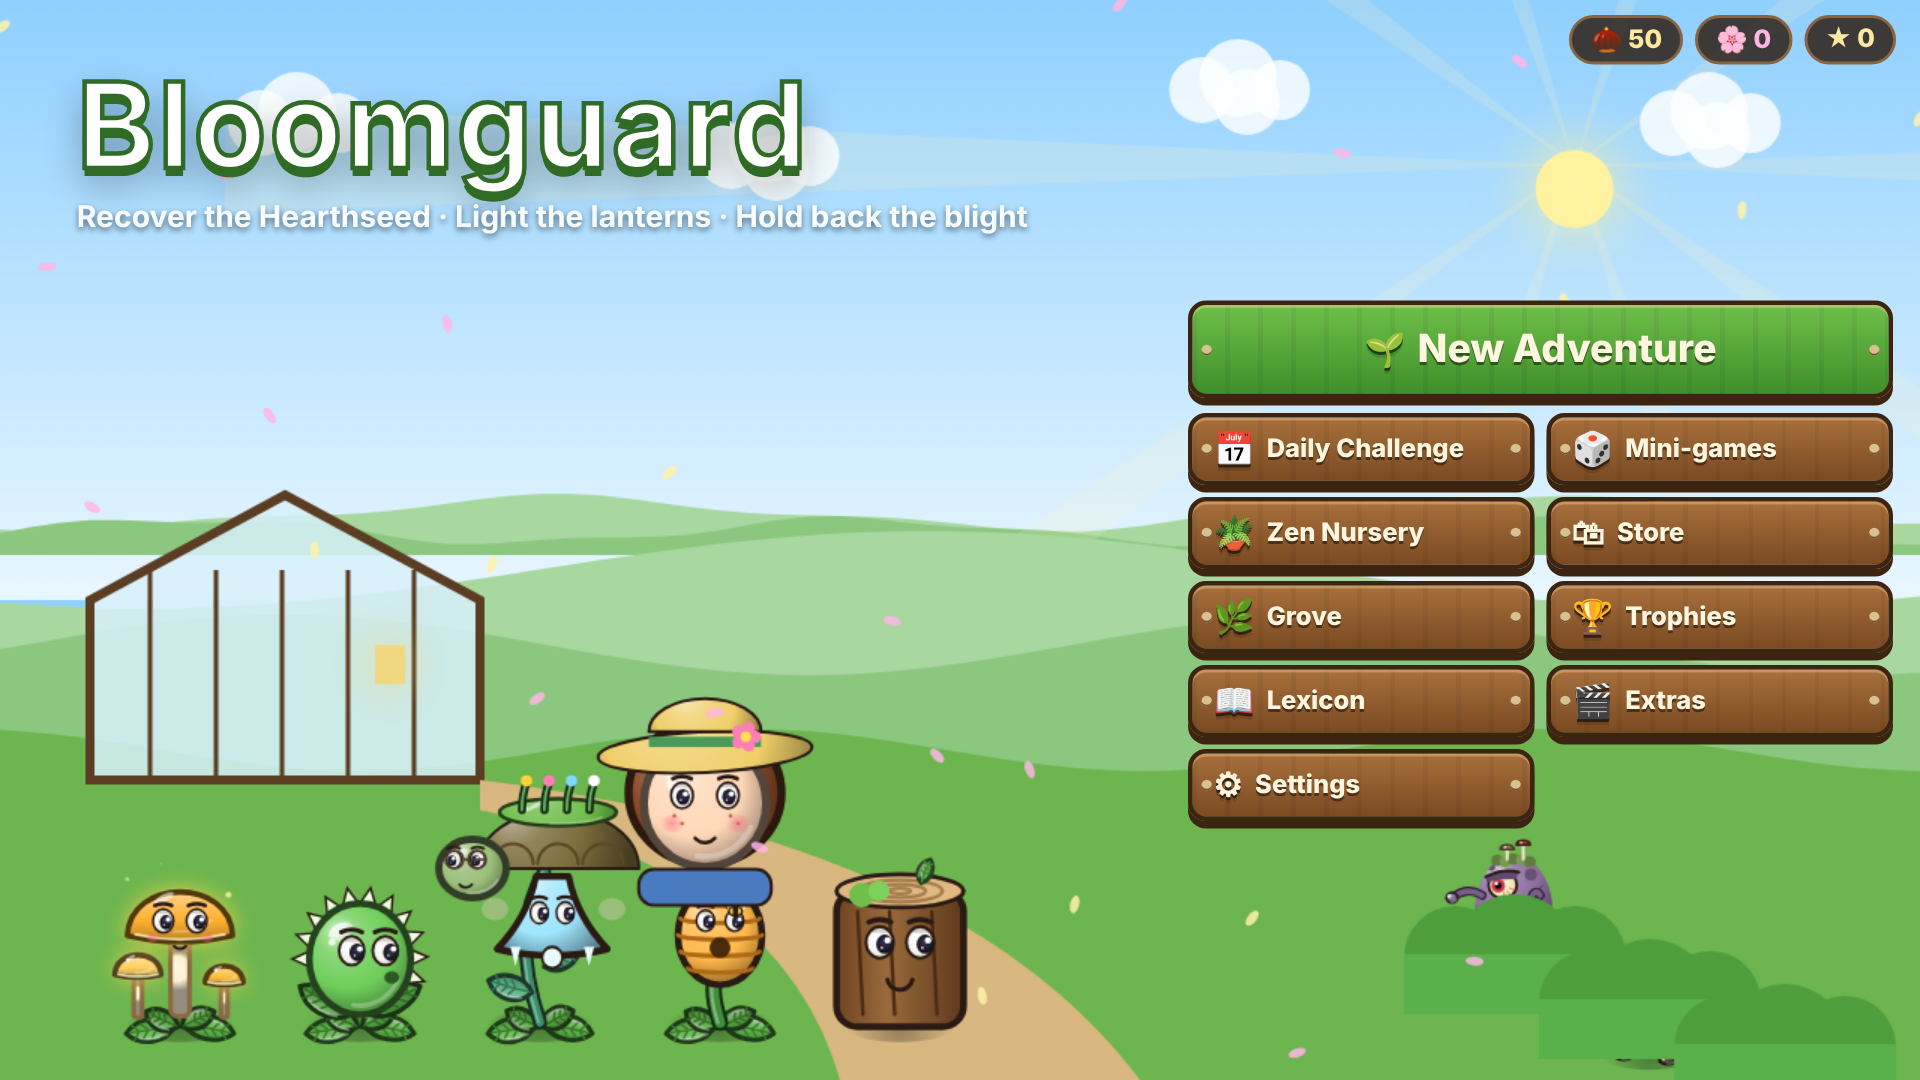
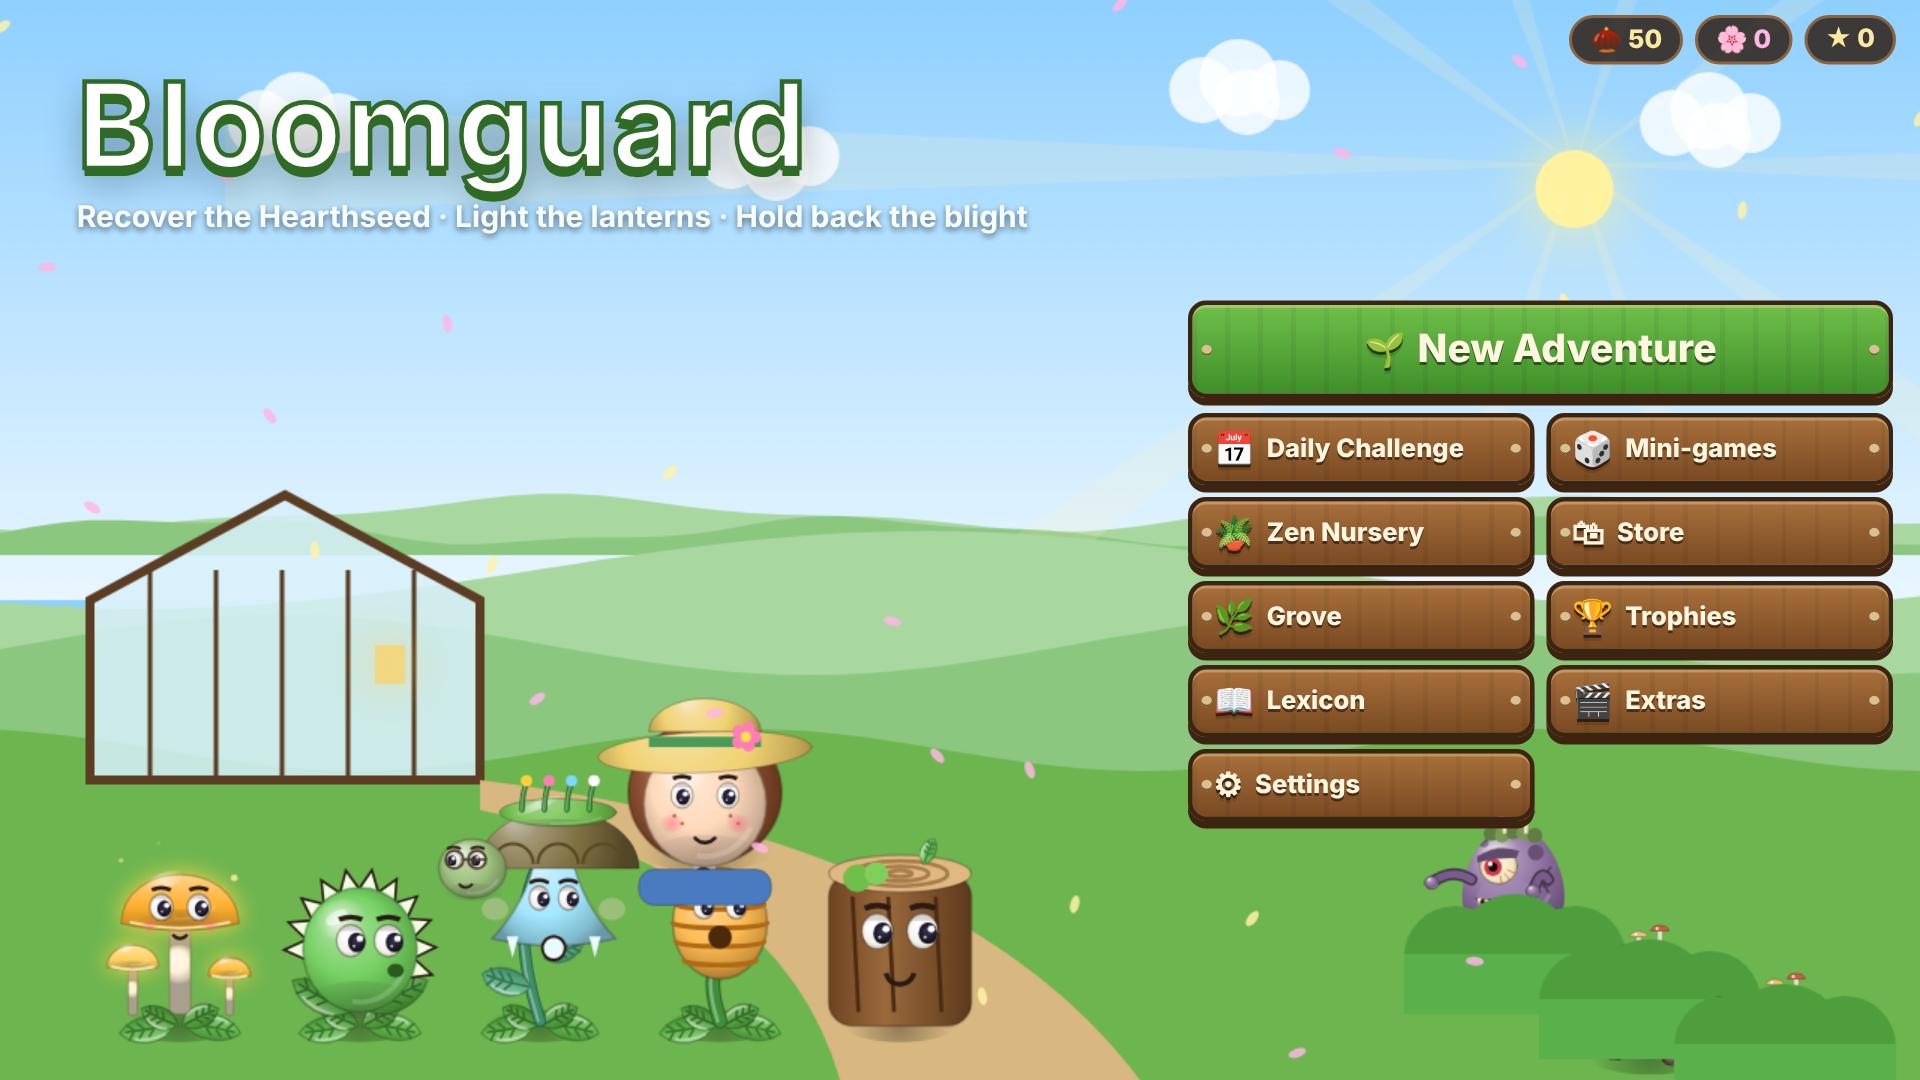
Art pass: outline-free soft shading, bigger characters, cleaner lawn
- Remove heavy outlines; thin soft same-hue edges instead
- Brighter volumetric shading with soft highlight and base ambient shadow
- Guardians scaled up to fill tiles; Rotlings ~35% taller, bosses tower
- Health bars and hit reach follow the new Rotling sizes
- Cleaner, brighter lawn texture with less noise
- Pot Luck I slightly easier

Claude-Session: https://claude.ai/code/session_01Fiiq1trLoNP3zvseY7J4Gr

diff --git a/www/js/art.js b/www/js/art.js
@@ -119,23 +119,28 @@ export function tint(h, amt) {
 }
 // toon shading: bright key light from the top-left, a warm core and a deep shadow edge
 function shadeFill(ctx, x, y, r, color) {
-  const g = ctx.createRadialGradient(x - r * 0.42, y - r * 0.55, r * 0.05, x - r * 0.1, y - r * 0.1, r * 1.25);
-  g.addColorStop(0, tint(color, 0.55));
-  g.addColorStop(0.28, tint(color, 0.18));
-  g.addColorStop(0.62, color);
-  g.addColorStop(1, tint(color, -0.42));
+  const g = ctx.createRadialGradient(x - r * 0.35, y - r * 0.45, r * 0.02, x - r * 0.05, y - r * 0.05, r * 1.15);
+  g.addColorStop(0, tint(color, 0.62));
+  g.addColorStop(0.22, tint(color, 0.3));
+  g.addColorStop(0.55, tint(color, 0.06));
+  g.addColorStop(0.85, tint(color, -0.18));
+  g.addColorStop(1, tint(color, -0.34));
   return g;
 }
 let lineColor = null;
 // coloured outlines read softer and richer than flat black ones
+// no heavy outlines: just a thin, soft edge in a darker shade of the shape's own colour
 function outline(ctx, s, w = 0.032) {
+  ctx.save();
+  ctx.globalAlpha *= lineColor ? 0.45 : 0.28;
   ctx.strokeStyle = lineColor || INK;
-  ctx.lineWidth = Math.max(1.8, s * w);
+  ctx.lineWidth = Math.max(1, s * w * 0.32);
   ctx.lineJoin = 'round';
   ctx.lineCap = 'round';
   ctx.stroke();
+  ctx.restore();
 }
-function inkFor(color) { return tint(color, -0.68); }
+function inkFor(color) { return tint(color, -0.5); }
 function blob(ctx, x, y, rx, ry, color, s, rot = 0) {
   ctx.beginPath();
   ctx.ellipse(x, y, rx, ry, rot, 0, TAU);
@@ -151,11 +156,16 @@ function glossy(ctx, x, y, rx, ry, rot = 0) {
   ctx.save();
   ctx.translate(x, y);
   ctx.rotate(rot);
-  ctx.fillStyle = 'rgba(255,255,255,0.55)';
-  ctx.beginPath(); ctx.ellipse(-rx * 0.38, -ry * 0.5, rx * 0.26, ry * 0.15, -0.5, 0, TAU); ctx.fill();
-  ctx.fillStyle = 'rgba(255,255,255,0.8)';
-  ctx.beginPath(); ctx.arc(-rx * 0.55, -ry * 0.3, Math.max(1.2, Math.min(rx, ry) * 0.07), 0, TAU); ctx.fill();
-  ctx.strokeStyle = 'rgba(255,255,255,0.28)';
+  const hg = ctx.createRadialGradient(-rx * 0.35, -ry * 0.5, 0, -rx * 0.35, -ry * 0.5, rx * 0.45);
+  hg.addColorStop(0, 'rgba(255,255,255,0.55)'); hg.addColorStop(1, 'rgba(255,255,255,0)');
+  ctx.fillStyle = hg;
+  ctx.beginPath(); ctx.ellipse(-rx * 0.35, -ry * 0.5, rx * 0.45, ry * 0.3, -0.4, 0, TAU); ctx.fill();
+  // soft ambient shadow at the base
+  const ag = ctx.createRadialGradient(0, ry * 0.85, 0, 0, ry * 0.85, rx * 0.9);
+  ag.addColorStop(0, 'rgba(0,0,0,0.14)'); ag.addColorStop(1, 'rgba(0,0,0,0)');
+  ctx.fillStyle = ag;
+  ctx.beginPath(); ctx.ellipse(0, ry * 0.8, rx * 0.9, ry * 0.3, 0, 0, TAU); ctx.fill();
+  ctx.strokeStyle = 'rgba(255,255,255,0.18)';
   ctx.lineWidth = Math.max(1.5, Math.min(rx, ry) * 0.09);
   ctx.beginPath(); ctx.ellipse(0, 0, rx * 0.84, ry * 0.84, 0, Math.PI * 0.15, Math.PI * 0.55); ctx.stroke();
   ctx.restore();
@@ -192,7 +202,7 @@ function eyes(ctx, x, y, gap, r, look = 0.4, blink = false, mood = 'happy') {
     const g = ctx.createRadialGradient(ex - r * 0.3, y - r * 0.4, r * 0.1, ex, y, r * 1.1);
     g.addColorStop(0, '#ffffff'); g.addColorStop(0.75, '#f4f2ec'); g.addColorStop(1, '#cfcbc0');
     ctx.fillStyle = g; ctx.fill();
-    ctx.strokeStyle = INK; ctx.lineWidth = Math.max(1.2, r * 0.2); ctx.stroke();
+    ctx.strokeStyle = 'rgba(40,25,20,0.35)'; ctx.lineWidth = Math.max(1, r * 0.08); ctx.stroke();
     const px = ex + r * look * 0.8, py = y + r * 0.12;
     ctx.beginPath(); ctx.ellipse(px, py, r * 0.56, r * 0.66, 0, 0, TAU);
     const pg = ctx.createRadialGradient(px, py - r * 0.2, r * 0.05, px, py, r * 0.66);
@@ -289,8 +299,8 @@ function leaf(ctx, x, y, len, w, ang, color, s) {
 }
 function stem(ctx, x1, y1, cx, cy, x2, y2, w, color = '#3f8f3a') {
   ctx.lineCap = 'round';
-  ctx.strokeStyle = inkFor(color);
-  ctx.lineWidth = w + 3.5;
+  ctx.strokeStyle = tint(color, -0.3);
+  ctx.lineWidth = w + 1.5;
   ctx.beginPath(); ctx.moveTo(x1, y1); ctx.quadraticCurveTo(cx, cy, x2, y2); ctx.stroke();
   ctx.strokeStyle = color;
   ctx.lineWidth = w;
@@ -350,7 +360,7 @@ function drawGuardianInner(ctx, type, x, y, s, t, o) {
   const elastic = pop < 1 ? 1 - Math.cos(pop * Math.PI * 2.5) * (1 - pop) * 0.6 : 1;
   const breathe = Math.sin(t * 2.2 + seed) * 0.022;
   ctx.translate(x, y);
-  const big = 1.16;
+  const big = 1.3;
   ctx.scale(big * (1 + breathe) * elastic * (pop < 1 ? 0.4 + pop * 0.6 : 1), big * (1 - breathe) * elastic);
   ctx.translate(-x, -y);
   if (!['bramblemat', 'barkwall', 'boulderbud', 'puffball'].includes(type)) pot(ctx, x, y, s);
@@ -775,8 +785,8 @@ function drawRotlingInner(ctx, e, s, t) {
   // stubby legs, noodle arms and moss + tiny toadstools sprouting from its head.
   const d = e.def;
   const x = e.x, y = e.y;
-  const scale = d.boss ? 1.75 : d.big ? 1.32 : d.small ? 0.62 : 1;
-  const r = s * 0.25 * scale;
+  const scale = d.boss ? 1.55 : d.big ? 1.25 : d.small ? 0.62 : 1;
+  const r = s * 0.33 * scale;
   const walk = e.eating ? 0 : t * (d.speed > 30 ? 13 : 8) + e.seed;
   const chew = e.eating ? Math.abs(Math.sin(t * 14 + e.seed)) : 0.15;
   ctx.save();
@@ -954,7 +964,7 @@ function drawRotlingInner(ctx, e, s, t) {
   const eg = ctx.createRadialGradient(ex - er * 0.3, ey - er * 0.3, 1, ex, ey, er * 1.1);
   eg.addColorStop(0, '#fffbe6'); eg.addColorStop(0.8, '#f0e6b8'); eg.addColorStop(1, '#c8b88a');
   ctx.fillStyle = eg; ctx.fill();
-  ctx.strokeStyle = INK; ctx.lineWidth = Math.max(1.8, r * 0.06); ctx.stroke();
+  ctx.strokeStyle = 'rgba(40,20,20,0.35)'; ctx.lineWidth = Math.max(1, r * 0.03); ctx.stroke();
   // blood-shot veins
   ctx.strokeStyle = 'rgba(200,60,70,0.55)'; ctx.lineWidth = Math.max(1, r * 0.02);
   for (let i = 0; i < 3; i++) { const a = 0.4 + i * 0.5; ctx.beginPath(); ctx.moveTo(ex + Math.cos(a) * er, ey + Math.sin(a) * er); ctx.lineTo(ex + Math.cos(a) * er * 0.55, ey + Math.sin(a) * er * 0.55); ctx.stroke(); }
@@ -967,13 +977,12 @@ function drawRotlingInner(ctx, e, s, t) {
   // brow + droopy lid
   ctx.fillStyle = tint(body, -0.3);
   ctx.beginPath(); ctx.moveTo(ex - er * 1.2, ey - er * 0.55); ctx.quadraticCurveTo(ex, ey - er * 1.25, ex + er * 1.15, ey - er * 0.85); ctx.lineTo(ex + er * 1.0, ey - er * 0.45); ctx.quadraticCurveTo(ex, ey - er * 0.5, ex - er * 1.2, ey - er * 0.2); ctx.closePath(); ctx.fill();
-  ctx.strokeStyle = INK; ctx.lineWidth = Math.max(2, r * 0.07);
-  ctx.beginPath(); ctx.moveTo(ex - er * 1.25, ey - er * 0.6); ctx.quadraticCurveTo(ex, ey - er * 1.3, ex + er * 1.2, ey - er * 0.95); ctx.stroke();
+
   // mouth
   const mx0 = cx - r * 0.78, my0 = bodyT + r * 1.42;
   const mw = r * 0.62, mh = r * (0.12 + chew * 0.32);
   ctx.beginPath(); ctx.moveTo(mx0, my0); ctx.quadraticCurveTo(mx0 + mw * 0.5, my0 + mh * 2.2, mx0 + mw, my0 - r * 0.04); ctx.quadraticCurveTo(mx0 + mw * 0.5, my0 + mh * 0.3, mx0, my0); ctx.closePath();
-  ctx.fillStyle = '#2a0f1e'; ctx.fill(); ctx.strokeStyle = INK; ctx.lineWidth = Math.max(1.5, r * 0.05); ctx.stroke();
+  ctx.fillStyle = '#3a1222'; ctx.fill();
   ctx.fillStyle = '#f6f0c8';
   for (let i = 0; i < 4; i++) {
     const tx = mx0 + mw * (0.15 + i * 0.22), ty = my0 + mh * 0.35 - Math.abs(i - 1.5) * r * 0.02;
@@ -1471,15 +1480,15 @@ export function makeBoardTexture(world, cols, rows, tw, th, activeRows) {
     g.addColorStop(0, tint(base, 0.08)); g.addColorStop(1, tint(base, -0.1));
     ctx.fillStyle = g;
     ctx.fillRect(x, y, tw, th);
-    // painterly blotches
-    for (let i = 0; i < 6; i++) {
-      ctx.fillStyle = rnd() < 0.5 ? 'rgba(255,255,255,0.05)' : 'rgba(0,0,0,0.05)';
+    // painterly blotches (subtle)
+    for (let i = 0; i < 3; i++) {
+      ctx.fillStyle = rnd() < 0.5 ? 'rgba(255,255,255,0.035)' : 'rgba(0,0,0,0.03)';
       ctx.beginPath(); ctx.ellipse(x + rnd() * tw, y + rnd() * th, 8 + rnd() * 18, 5 + rnd() * 10, rnd() * 3, 0, TAU); ctx.fill();
     }
     // grass blades / texture strokes
-    const blade = active ? tint(base, -0.28) : 'rgba(60,40,20,0.4)';
-    ctx.strokeStyle = blade; ctx.lineWidth = 1.4;
-    for (let i = 0; i < (active ? 26 : 10); i++) {
+    const blade = active ? tint(base, -0.16) : 'rgba(60,40,20,0.3)';
+    ctx.strokeStyle = blade; ctx.lineWidth = 1.2;
+    for (let i = 0; i < (active ? 9 : 6); i++) {
       const bx = x + rnd() * tw, by = y + 8 + rnd() * (th - 8), h = 4 + rnd() * 7;
       ctx.beginPath(); ctx.moveTo(bx, by); ctx.quadraticCurveTo(bx + 1, by - h * 0.6, bx + (rnd() - 0.5) * 5, by - h); ctx.stroke();
     }
@@ -1488,16 +1497,14 @@ export function makeBoardTexture(world, cols, rows, tw, th, activeRows) {
       for (let i = 0; i < 8; i++) { const bx = x + rnd() * tw, by = y + rnd() * th; ctx.beginPath(); ctx.moveTo(bx, by); ctx.lineTo(bx + 1, by - 5); ctx.stroke(); }
     }
     // soft tile edges
-    ctx.strokeStyle = 'rgba(0,0,0,0.06)'; ctx.lineWidth = 2;
-    ctx.strokeRect(x + 1, y + 1, tw - 2, th - 2);
+
   }
   // mowed stripes + row hedge shadows
   for (let r = 0; r < rows; r++) {
     if (activeRows.includes(r)) {
       ctx.fillStyle = r % 2 ? 'rgba(255,255,255,0.05)' : 'rgba(0,0,0,0.035)';
       ctx.fillRect(0, r * th, cols * tw, th);
-      ctx.strokeStyle = 'rgba(255,255,255,0.07)'; ctx.lineWidth = 3;
-      for (let x = 10; x < cols * tw; x += 26) { ctx.beginPath(); ctx.moveTo(x, r * th + 6); ctx.lineTo(x + 10, r * th + th - 8); ctx.stroke(); }
+
     }
     ctx.fillStyle = 'rgba(0,0,0,0.08)'; ctx.fillRect(0, r * th + th - 5, cols * tw, 5);
   }

diff --git a/www/js/data.js b/www/js/data.js
@@ -133,7 +133,7 @@ export const ENEMY_INFO = {
 
 // Worlds. `mech` drives the special rule of each world (see game.js).
 export const WORLDS = [
-  { id: 'dawn', name: 'Dawn Greenhouse', mech: 'day', sky: ['#8fd0ff', '#e9f7ff'], ground: ['#7cc65b', '#6db54f'], accent: '#ffd23a',
+  { id: 'dawn', name: 'Dawn Greenhouse', mech: 'day', sky: ['#8fd0ff', '#e9f7ff'], ground: ['#8ad35e', '#74c04c'], accent: '#ffd23a',
     blurb: 'Grandma Ada\'s old greenhouse, where it all begins.', rule: 'Glow falls from the sky.' },
   { id: 'marsh', name: 'Moonlit Marsh', mech: 'night', sky: ['#141a40', '#36407a'], ground: ['#3f6f5a', '#386450'], accent: '#9be7ff',
     blurb: 'A misty bog where fireflies dance over the water.', rule: 'No sky Glow at night. Catch fireflies for Glow!' },
@@ -314,7 +314,7 @@ export function dailyLevel(key = todayKey(), unlockedLevel = 36) {
 
 // ---------- Mini-games ----------
 export const POTLUCK = [
-  { name: 'Pot Luck I', world: 0, pots: 18, rotChance: 0.42, pool: ['grub', 'skitter', 'shellback'], guardians: ['thornling', 'frostbell', 'barkwall', 'vinewhip', 'puffball'], reward: 60 },
+  { name: 'Pot Luck I', world: 0, pots: 18, rotChance: 0.36, pool: ['grub', 'skitter', 'shellback'], guardians: ['thornling', 'frostbell', 'barkwall', 'vinewhip', 'puffball'], reward: 60 },
   { name: 'Pot Luck II', world: 2, pots: 22, rotChance: 0.48, pool: ['grub', 'skitter', 'shieldbug', 'emberbeast', 'spore'], guardians: ['thornling', 'twinbud', 'emberroot', 'barkwall', 'rootsnare', 'hivebloom'], reward: 90 },
   { name: 'Pot Luck III', world: 4, pots: 25, rotChance: 0.45, pool: ['grub', 'shieldbug', 'crystalback', 'rotpriest', 'brute', 'burrower'], guardians: ['lanceleaf', 'emberroot', 'hivebloom', 'boulderbud', 'stormseed', 'mossmender', 'twinbud'], reward: 130 },
 ];

diff --git a/www/js/game.js b/www/js/game.js
@@ -875,7 +875,7 @@ export class Game {
       if (p.x > W + 20) { p.done = true; continue; }
       for (const e of this.enemies) {
         if (e.dead || e.row !== p.row || e.burrowed || e.diving || p.hit.has(e)) continue;
-        const reach = 26 * (e.def.boss ? 1.9 : e.def.big ? 1.35 : e.def.small ? 0.7 : 1) + (e.shield > 0 ? 30 : 0);
+        const reach = 32 * (e.def.boss ? 1.6 : e.def.big ? 1.25 : e.def.small ? 0.7 : 1) + (e.shield > 0 ? 34 : 0);
         if (p.x >= e.x - reach && p.x <= e.x + reach + 20) {
           this.damage(e, p.dmg, p.kind === 'lance' ? 'lance' : 'shot');
           if (p.slow && !e.def.frostproof) e.slow = Math.max(e.slow, p.slowTime);
@@ -1192,8 +1192,10 @@ export class Game {
         drawRotling(ctx, e, TW, t);
         if (!e.burrowed && (e.hp < e.maxHp || e.def.boss)) {
           const w = e.def.boss ? 150 : 50;
-          this._bar(ctx, e.x - w / 2, e.y - (e.def.boss ? 135 : e.def.big ? 95 : 72) - (e.def.flying ? 40 : 0), w, e.hp / e.maxHp, '#e0526a');
-          if (e.def.boss) this._text(ctx, e.def.name, e.x, e.y - 142, 16, '#ffd0e8', 'center');
+          const sc = e.def.boss ? 1.55 : e.def.big ? 1.25 : e.def.small ? 0.62 : 1;
+          const top = e.y - TW * 0.33 * sc * (e.def.crab ? 1.6 : 2.55) - (e.def.flying ? 44 : 0) - 10;
+          this._bar(ctx, e.x - w / 2, top, w, e.hp / e.maxHp, '#e0526a');
+          if (e.def.boss) this._text(ctx, e.def.name, e.x, top - 6, 16, '#ffd0e8', 'center');
         }
       }
     }
